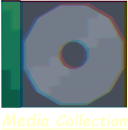
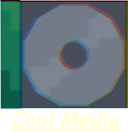
added media thingy back

diff --git a/coolmedia.html b/coolmedia.html
@@ -1,0 +1,28 @@
+<!DOCTYPE html>
+<html lang="en">
+<head>
+    <title>
+        cool media!
+    </title>
+</head>
+<h2>
+    media that i like
+</h2>
+
+<div>
+<h3>
+    Burning Snow
+</h3>
+<img src="pictures/burningsnow.gif", alt="burning snow gif">
+<p>
+    Burning Snow is a awesome little short game created by justcore available for free <a href="https://justcore.itch.io/burning-snow">here</a> on itch.io. 
+    This game was a fun little experience that reminds me of what i have heard about a short hike. The game was really simple
+    but was inspiring and 
+    the stylized graphics were really cool and the game looked really pretty. 
+    The end of the game was very unexpected which makes this game stand out in my opinion. 
+    I highly recomend anybody with some free time to download this game and play it.
+
+</p>
+</div>
+
+</html>

diff --git a/index.html b/index.html
@@ -30,6 +30,12 @@
             </a>
             </div>
 
+            <div>
+            <a href="coolmedia.html">
+                <img src="icons/cd1.png", alt="cat pictures" width="96px" height="98.25px">
+            </a>
+            </div>
+
             </div>
         </nav>
     </aside>